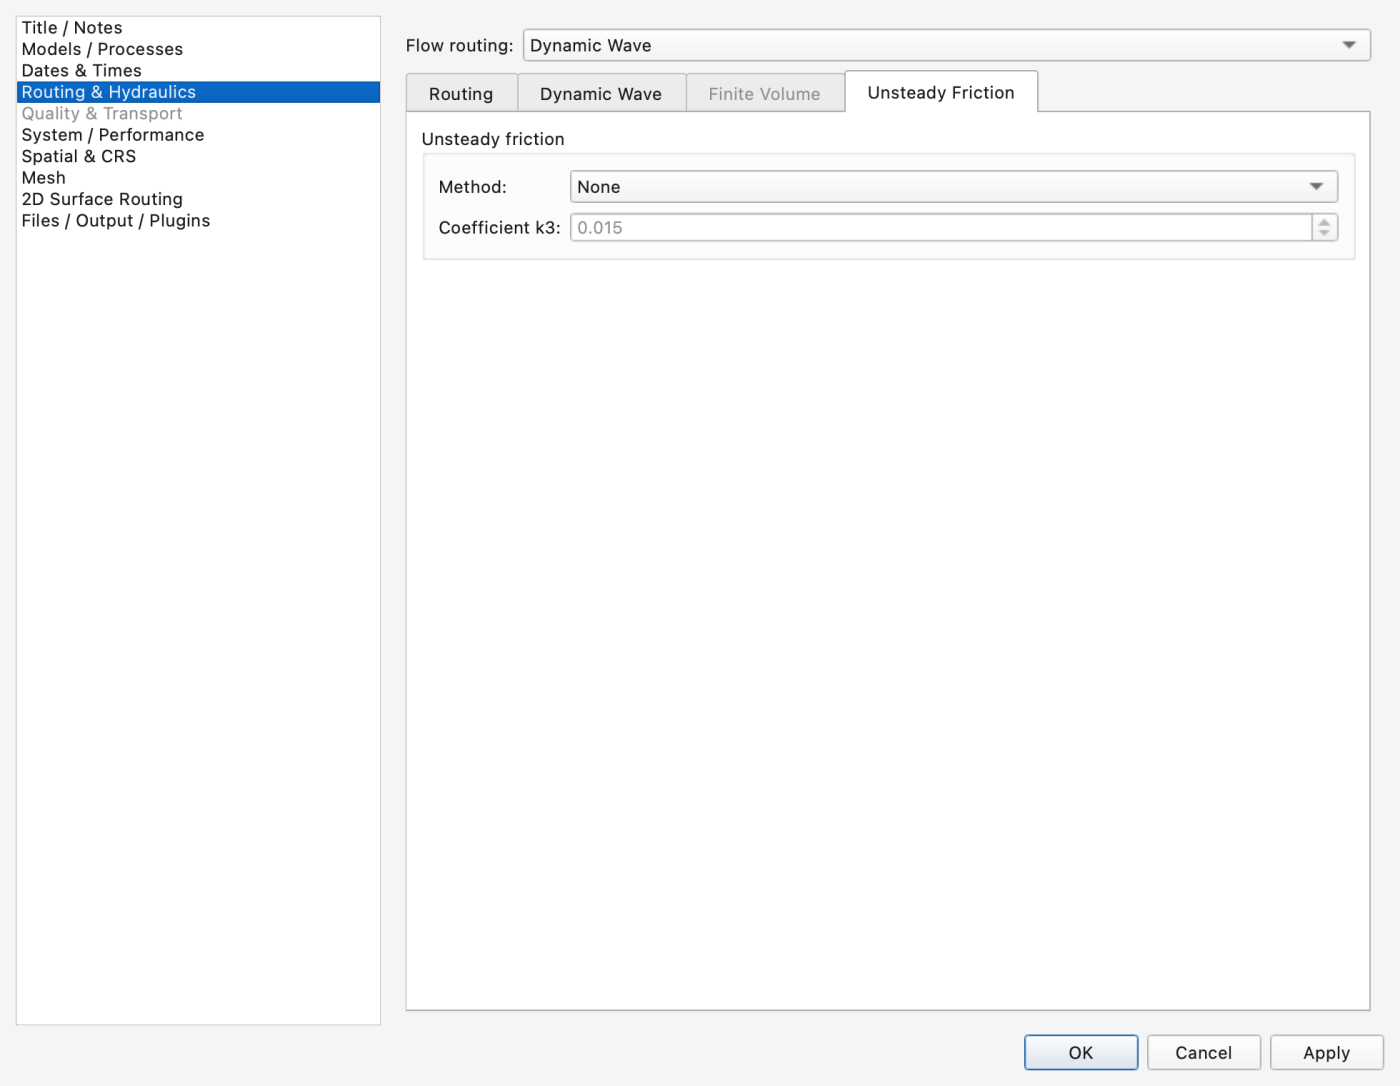
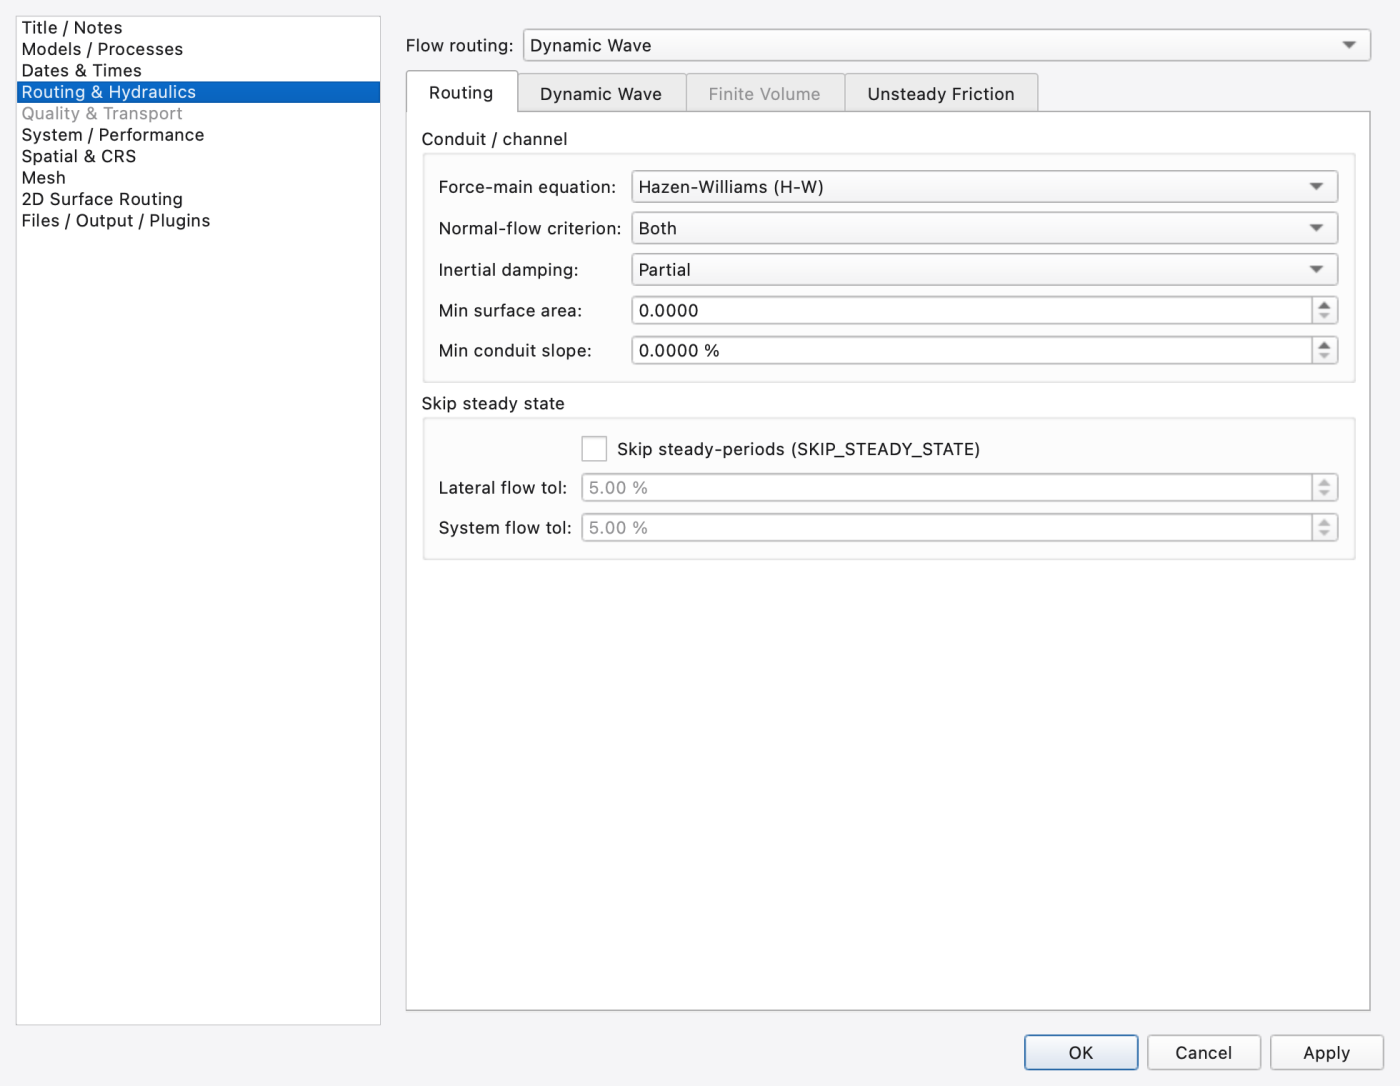
docs(manual): re-capture chapter 18 after the ampersand fix
Four figures change: the three carrying a tab strip whose labels were mangled
("Domains _Processes" is now "Domains & Processes"), plus
18_routing_hydraulics. The other ten re-captured byte-identically, which is
the evidence that the pipeline is deterministic.

18_routing_hydraulics had drifted onto a greyed Finite Volume tab: the page
inherits whichever tab was last current, so an earlier single-figure capture
leaked into it. Its manifest row now pins tab:"Routing", and
18_quality_transport pins tab:"General" for the same reason. A figure that
depends on a specific tab has to name it rather than trust inherited state.

manual_figures.py:
  - flip now updates a figure that is already \fig instead of refusing it.
    Re-capturing after a UI change and republishing over the old image is the
    maintenance loop this manifest exists for; only \figtodo rows get flipped,
    and the output says "updated" rather than "published".
  - manual_pages() skips images/TODO.md. That file is this script's own output
    and mentions \figtodo and \videotodo in its instructions, so scanning it
    inflated the totals and made consecutive runs disagree. The counts now
    cross-check exactly: 312 placeholders + 14 published = 326 figures, and 35
    videos — which is what the original TODO.md header claimed. Only its
    per-chapter line numbers had actually gone stale.

diff --git a/scripts/manual_figures.py b/scripts/manual_figures.py
@@ -46,8 +46,14 @@ FIG_RE = re.compile(r"\\(figtodo|fig)\{([^,}]+),([^}]*)\}")
 
 
 def manual_pages() -> list[Path]:
-    """Every built manual page. README.md is authoring notes, not a page."""
-    return sorted(p for p in MANUAL.rglob("*.md") if p.name != "README.md")
+    """Every built manual page.
+
+    README.md is authoring notes and images/TODO.md is this script's own
+    output — both mention \\figtodo and \\videotodo in prose, so counting them
+    inflates the totals and makes each run disagree with the last.
+    """
+    skip = {(MANUAL / "README.md").resolve(), (IMAGES / "TODO.md").resolve()}
+    return sorted(p for p in MANUAL.rglob("*.md") if p.resolve() not in skip)
 
 
 def png_size(path: Path) -> tuple[int, int]:
@@ -151,14 +157,20 @@ def cmd_audit(_args: argparse.Namespace) -> int:
 def cmd_flip(args: argparse.Namespace) -> int:
     stage = Path(args.from_dir).resolve()
     refs = scan()
-    pending = {name: (page, lineno)
-               for page, lineno, kind, name, _ in refs if kind == "figtodo"}
+    pending = {name for _, _, kind, name, _ in refs if kind == "figtodo"}
+    published = {name for _, _, kind, name, _ in refs if kind == "fig"}
+    known = pending | published
 
+    # A figure that is already \fig is not an error: re-capturing after a UI
+    # change and republishing over it is the whole point of keeping a manifest.
+    # Those rows are updated in place; only the \figtodo ones get flipped.
     if args.chapter:
         prefix = f"{args.chapter}_"
-        names = sorted(n for n in pending if n.startswith(prefix))
+        names = sorted(n for n in known
+                       if n.startswith(prefix) and (stage / n).exists())
         if not names:
-            print(f"no placeholders left with prefix '{prefix}'", file=sys.stderr)
+            print(f"nothing staged in {stage} with prefix '{prefix}'",
+                  file=sys.stderr)
             return 1
     else:
         names = args.names
@@ -171,8 +183,9 @@ def cmd_flip(args: argparse.Namespace) -> int:
     staged: dict[str, Path] = {}
     errors: list[str] = []
     for name in names:
-        if name not in pending:
-            errors.append(f"{name}: not a live \\figtodo (already flipped?)")
+        if name not in known:
+            errors.append(f"{name}: no \\figtodo or \\fig in the manual "
+                          f"references it")
             continue
         src = stage / name
         if not src.exists():
@@ -204,7 +217,8 @@ def cmd_flip(args: argparse.Namespace) -> int:
         shutil.copy2(src, dst)
         if oxipng:
             subprocess.run([oxipng, "-o", "2", "-q", str(dst)], check=False)
-        print(f"  published {name} ({dst.stat().st_size // 1024} KB)")
+        verb = "updated  " if name in published else "published"
+        print(f"  {verb} {name} ({dst.stat().st_size // 1024} KB)")
 
     # Flip the placeholders. Anchored on the exact file name, so a caption can
     # never be matched by accident; all occurrences, since a figure may be

diff --git a/docs/manual/images/TODO.md b/docs/manual/images/TODO.md
@@ -10,7 +10,7 @@ publish it with `python3 scripts/manual_figures.py flip --chapter NN`
 `\fig`). Videos are swapped by hand: `\videotodo{caption}` →
 `\video{YOUTUBE_ID, caption}`.
 
-Remaining: 312 figures, 37 videos. Published so far: 14.
+Remaining: 312 figures, 35 videos. Published so far: 14.
 
 ## 01_introduction.md
 
